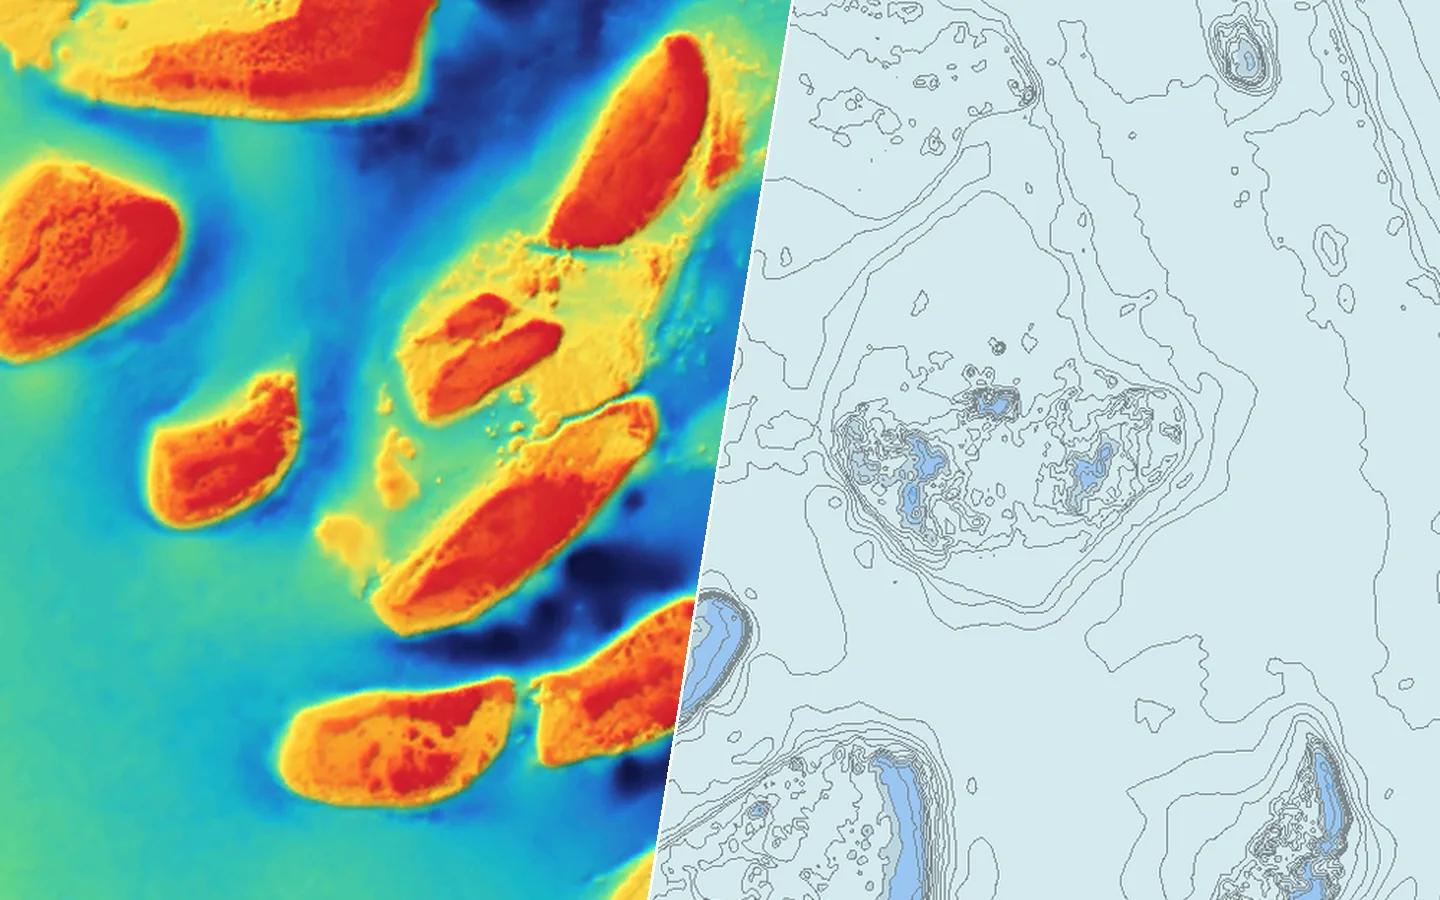
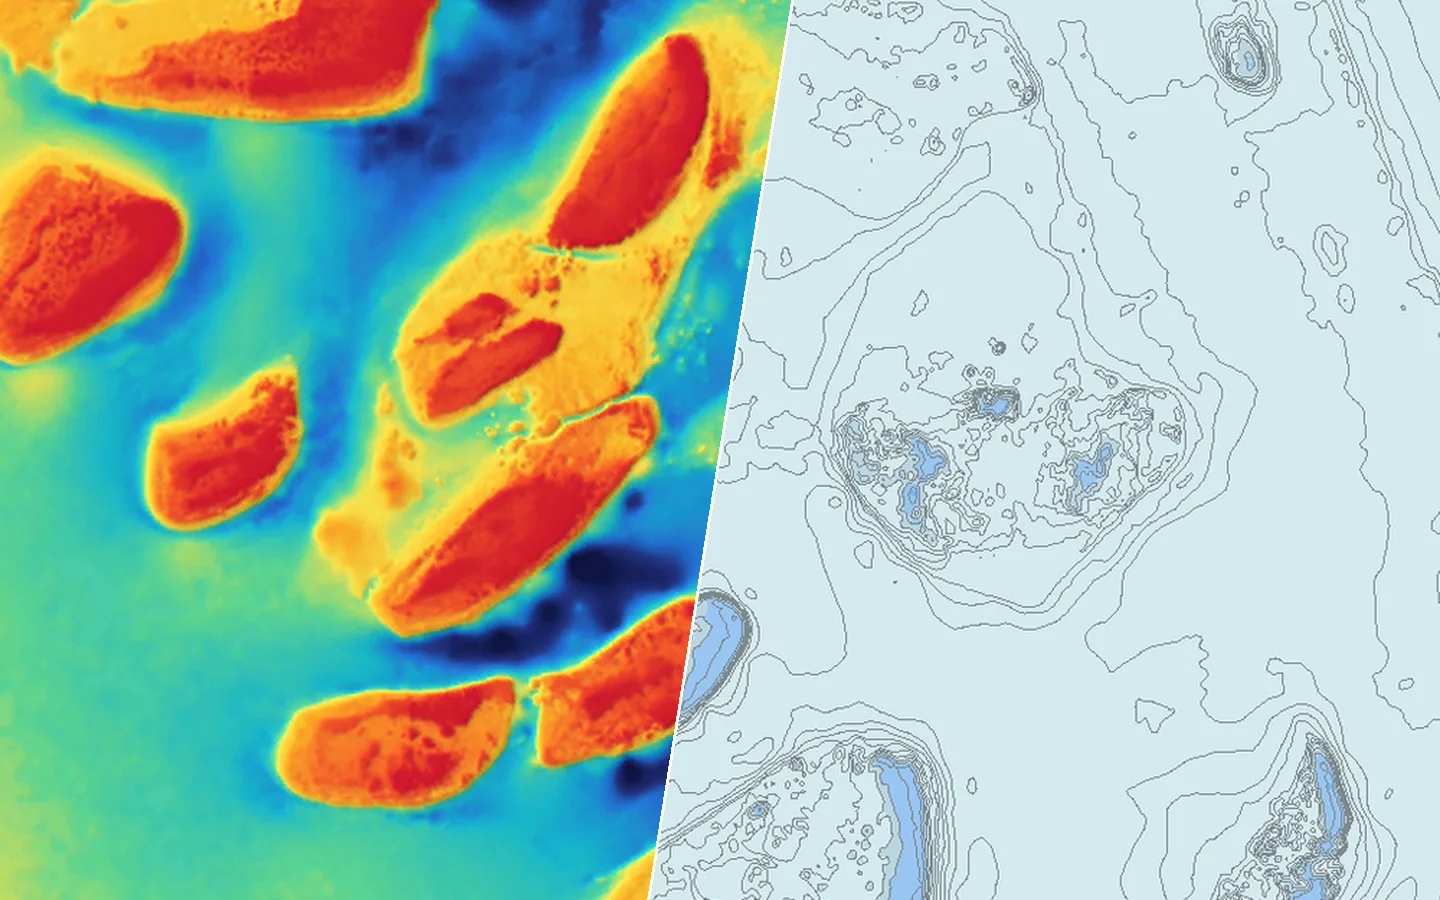
1.4: sharper, cleaner depth pictures
- Smooth (bicubic) depth between survey cells, so zoomed-in pictures stay crisp
- Slopes from all eight neighbours (Horn's method), which evens out survey speckle
- Light from four directions, so walls facing any way keep their shape
- More colours where most of the seabed is, so a reef flat isn't one colour
- Example picture of both layers in the README

diff --git a/src/depth.cpp b/src/depth.cpp
@@ -353,6 +353,36 @@ struct Grid {
     }
     return wsum >= 0.5 ? float(sum / wsum) : kMissing;
   }
+  // Smooth (Catmull-Rom bicubic) depth: crisper than bilinear when the picture is finer than the survey, and
+  // it passes through every cell's own value. Falls back to bilinear near missing cells and edges.
+  float SampleCubic(int L, double cx, double cy) const {
+    const int W = lw[size_t(L)], H = lh[size_t(L)];
+    const double x0f = std::floor(cx), y0f = std::floor(cy);
+    const int x0 = int(x0f), y0 = int(y0f);
+    if (x0 < 1 || y0 < 1 || x0 + 2 >= W || y0 + 2 >= H) return Sample(L, cx, cy);
+    const double fx = cx - x0f, fy = cy - y0f;
+    auto weights = [](double t, double w[4]) {
+      const double t2 = t * t, t3 = t2 * t;
+      w[0] = -0.5 * t3 + t2 - 0.5 * t;
+      w[1] = 1.5 * t3 - 2.5 * t2 + 1;
+      w[2] = -1.5 * t3 + 2 * t2 + 0.5 * t;
+      w[3] = 0.5 * t3 - 0.5 * t2;
+    };
+    double wx[4], wy[4];
+    weights(fx, wx);
+    weights(fy, wy);
+    double sum = 0;
+    for (int j = 0; j < 4; ++j) {
+      double rowSum = 0;
+      for (int i = 0; i < 4; ++i) {
+        const float v = At(L, x0 - 1 + i, y0 - 1 + j);
+        if (!Valid(v)) return Sample(L, cx, cy);
+        rowSum += wx[i] * v;
+      }
+      sum += wy[j] * rowSum;
+    }
+    return float(sum);
+  }
 };
 
 namespace {
@@ -647,6 +677,21 @@ class DepthImagery : public src::Source {
     }
     lo_ = o.rangeMin;
     hi_ = o.rangeMax > o.rangeMin ? o.rangeMax : std::max(lo_ + 1, AutoRangeMax(*g_));
+    // Where in the colours each depth falls: part even, part by how much seabed sits at each depth, so a reef flat
+    // that's mostly 5-15 m deep gets several colours instead of one. The range still starts and ends the colours.
+    std::vector<double> cdf(kSpreadSteps + 1, 0.0);
+    size_t inRange = 0;
+    for (float v : g_->sample) {
+      if (v < lo_ || v > hi_) continue;
+      ++inRange;
+      cdf[size_t(std::lround((double(v) - lo_) / (hi_ - lo_) * kSpreadSteps))] += 1;
+    }
+    for (int i = 0; i <= kSpreadSteps; ++i) {
+      const double even = double(i) / kSpreadSteps;
+      if (i) cdf[size_t(i)] += cdf[size_t(i - 1)];
+      const double byArea = inRange ? cdf[size_t(i)] / double(inRange) : even;
+      spread_[size_t(i)] = float(kEvenShare * even + (1 - kEvenShare) * byArea);
+    }
     printf("  colours: %s, %g .. %g m (deeper shows in the deepest colour), hillshade %d%%\n", pal->name, lo_, hi_, int(std::lround(o.hillshade * 100)));
     // native resolution in Lowrance-Mercator metres
     native_ = g_->cellMetres / std::cos(g_->centreLat * kDeg) * kRl / kA;
@@ -656,9 +701,19 @@ class DepthImagery : public src::Source {
   std::string Describe() const override { return "depth GeoTIFF " + g_->path; }
   std::unique_ptr<src::Sampler> MakeSampler() override { return std::make_unique<DepthSampler>(this); }
 
+  // 0..1 depth position in the range -> 0..1 position in the palette (see the constructor)
+  double Spread(double t) const {
+    const double f = std::clamp(t, 0.0, 1.0) * kSpreadSteps;
+    const int k = std::min(int(f), kSpreadSteps - 1);
+    return spread_[size_t(k)] + (spread_[size_t(k + 1)] - spread_[size_t(k)]) * (f - k);
+  }
+
+  static constexpr int kSpreadSteps = 512;
+  static constexpr double kEvenShare = 0.55;
   std::shared_ptr<Grid> g_;
   Options o_;
   uint8_t lut_[256][3]{};
+  float spread_[kSpreadSteps + 1]{};
   double lo_ = 0, hi_ = 10, native_ = 1;
 };
 
@@ -674,8 +729,12 @@ bool DepthSampler::RenderTile(double mpp, int64_t tx, int64_t ty, uint8_t* rgba)
   g.proj.UnitMetres(latMid, ex, ny);
   const double cellX = std::hypot(g.a, g.d) * ex * double(1 << L), cellY = std::hypot(g.b, g.e) * ny * double(1 << L);
   const double z = s.o_.relief, amount = std::clamp(s.o_.hillshade, 0.0, 1.0);
-  // light from the north-west, 45 degrees up
-  const double lx = -0.5, ly = 0.5, lz = std::sqrt(0.5);
+  // Light from four directions, 45 degrees up (as in multi-directional hillshade): mostly the north-west, plus the
+  // west, north and south-west, so walls facing any way keep their shape instead of going flat.
+  const double lz = std::sqrt(0.5);
+  struct Light { double x, y, weight; };
+  const double r = std::sqrt(0.5) * std::sqrt(0.5);   // horizontal part of a 45-degree light, split on a diagonal
+  const Light lights[4] = {{-r, r, 0.45}, {-std::sqrt(0.5), 0, 0.2}, {0, std::sqrt(0.5), 0.2}, {-r, -r, 0.15}};
   std::vector<double> lon(256), lat(256);
   for (int i = 0; i < 256; ++i) lon[size_t(i)] = (tx * 256 + i + 0.5) * mpp / kRl / kDeg;
   for (int j = 0; j < 256; ++j) lat[size_t(j)] = (2 * std::atan(std::exp((ty * 256 + j + 0.5) * mpp / kRl)) - kPi / 2) / kDeg;
@@ -688,27 +747,43 @@ bool DepthSampler::RenderTile(double mpp, int64_t tx, int64_t ty, uint8_t* rgba)
       g.proj.FromLonLat(lon[size_t(i)], lat[size_t(j)], x, y);
       g.MapToPixel(x, y, col, r);
       const double cx = col * f - 0.5, cy = r * f - 0.5;
-      const float d = g.Sample(L, cx, cy);
-      if (!Valid(d)) { px[3] = 0; continue; }
+      if (!Valid(g.Sample(L, cx, cy))) { px[3] = 0; continue; }   // mostly missing here
+      const float d = g.SampleCubic(L, cx, cy);
       uint8_t base[3];
       if (d < 0 && s.lo_ >= 0) {
         if (!s.o_.showAboveWater) { px[3] = 0; continue; }
         base[0] = uint8_t(kAboveWater >> 16); base[1] = uint8_t(kAboveWater >> 8); base[2] = uint8_t(kAboveWater);
       } else {
-        const double t = std::clamp((double(d) - s.lo_) / (s.hi_ - s.lo_), 0.0, 1.0);
+        const double t = s.Spread((double(d) - s.lo_) / (s.hi_ - s.lo_));
         const auto& c = s.lut_[size_t(std::lround(t * 255))];
         base[0] = c[0]; base[1] = c[1]; base[2] = c[2];
       }
       double shade = 1;
       const auto& lines = s.o_.pictureContours;
       if (amount > 0 || !lines.empty()) {
-        // slope of the seabed height (= -depth): x east, y north (rows run south)
-        const float de = g.Sample(L, cx + 1, cy), dw = g.Sample(L, cx - 1, cy), dn = g.Sample(L, cx, cy - 1), ds = g.Sample(L, cx, cy + 1);
-        const double hx = (Valid(de) && Valid(dw)) ? -(double(de) - double(dw)) / (2 * cellX) : 0;
-        const double hy = (Valid(dn) && Valid(ds)) ? -(double(dn) - double(ds)) / (2 * cellY) : 0;
+        // Slope of the seabed height (= -depth): x east, y north (rows run south). Horn's method, as in GDAL's
+        // hillshade: all eight neighbours, weighted 1-2-1, which evens out survey speckle without softening real
+        // edges. Falls back to the four nearest where neighbours are missing.
+        float nb[3][3];
+        bool all = true;
+        for (int v = 0; v < 3; ++v)
+          for (int u = 0; u < 3; ++u) {
+            nb[v][u] = (u == 1 && v == 1) ? d : g.Sample(L, cx + u - 1, cy + v - 1);
+            all = all && Valid(nb[v][u]);
+          }
+        double hx, hy;
+        if (all) {
+          hx = -((nb[0][2] + 2.0 * nb[1][2] + nb[2][2]) - (nb[0][0] + 2.0 * nb[1][0] + nb[2][0])) / (8 * cellX);
+          hy = -((nb[0][0] + 2.0 * nb[0][1] + nb[0][2]) - (nb[2][0] + 2.0 * nb[2][1] + nb[2][2])) / (8 * cellY);
+        } else {
+          const float de = nb[1][2], dw = nb[1][0], dn = nb[0][1], ds = nb[2][1];
+          hx = (Valid(de) && Valid(dw)) ? -(double(de) - double(dw)) / (2 * cellX) : 0;
+          hy = (Valid(dn) && Valid(ds)) ? -(double(dn) - double(ds)) / (2 * cellY) : 0;
+        }
         if (amount > 0) {
           const double nx = -z * hx, nyy = -z * hy, len = std::sqrt(nx * nx + nyy * nyy + 1);
-          const double lit = std::max(0.0, (nx * lx + nyy * ly + lz) / len) / lz;   // 1 on flat ground
+          double lit = 0;
+          for (const Light& l : lights) lit += l.weight * std::max(0.0, (nx * l.x + nyy * l.y + lz) / len) / lz;   // 1 on flat ground
           shade = 1 - amount + amount * std::min(lit, 1.6);
         }
         if (!lines.empty() && d >= 0) {

diff --git a/src/gui.cpp b/src/gui.cpp
@@ -19,7 +19,7 @@
 #pragma comment(lib, "user32.lib")
 
 static const wchar_t* kAppName = L"AT5 Chart Maker";
-static const wchar_t* kVersion = L"1.3.2";
+static const wchar_t* kVersion = L"1.4";
 
 enum {
   ID_IN = 100, ID_IN_BROWSE, ID_OUT, ID_OUT_BROWSE, ID_DESC, ID_PROJECT, ID_SCHEME, ID_DEEP, ID_LAND, ID_LAND_BROWSE,
@@ -115,13 +115,15 @@ static const Help kHelp[H_COUNT] = {
    L"\x2022  Chart blues: the light blues of a paper chart.\n"
    L"\x2022  Grey: light (shallow) to dark (deep)."},
   {L"Depth range", L"Which depths the colours are spread over.",
-   L"The colours are spread over this range of depths, for example 0-200. Water deeper than the range shows "
-   L"in the deepest colour.\n\n"
+   L"The colours are spread over this range of depths, for example 0-200, with more of them where most of the "
+   L"seabed is, so a reef flat doesn't come out all one colour. Water deeper than the range shows in the "
+   L"deepest colour.\n\n"
    L"A small range (say 0-30) shows the reefs and shallows in much more detail. A big range (say 0-2000) "
    L"shows the whole drop-off, with fewer colours left for the shallows.\n\n"
    L"Leave it empty for automatic: from 0 to about the deepest water in the survey."},
   {L"Hillshade", L"Shading that makes the seabed look 3D.",
-   L"Light from the north-west shades the slopes, so reefs, ridges and channels stand out.\n\n"
+   L"Light mostly from the north-west, with some from the west, north and south-west, shades the slopes, so "
+   L"reefs, ridges and channels stand out whichever way they face.\n\n"
    L"Off gives flat colours; Strong makes every bump show. Medium suits most surveys."},
   {L"Contour lines", L"Also makes a chart of depth contour lines.",
    L"Draws depth contour lines from the survey, with their depths written along them, as a separate depth "

diff --git a/docs/HOW-TO.md b/docs/HOW-TO.md
@@ -72,8 +72,8 @@ A GeoTIFF of depths (for example from BathyPicker) becomes a coloured, shaded de
 | Setting | What it does |
 |---|---|
 | **Colours** | **Spectrum** (red in the shallows through yellow and green to deep blue; shows the most detail), **Lagoon**, **Thermal**, **Chart blues** or **Grey**. |
-| **Depth range** | The depths the colours are spread over, for example `0-200`. Deeper water shows in the deepest colour. A small range (say `0-30`) shows reefs and shallows in much more detail; a big one (`0-2000`) shows the whole drop-off. Empty = automatic, from 0 to about the deepest water in the survey. |
-| **Hillshade** | Shading from the north-west that makes the seabed look 3D: Off, Light, Medium (recommended) or Strong. |
+| **Depth range** | The depths the colours are spread over, for example `0-200`. Deeper water shows in the deepest colour. The colours bunch up where most of the seabed is, so a reef flat gets several colours instead of one. A small range (say `0-30`) shows reefs and shallows in much more detail; a big one (`0-2000`) shows the whole drop-off. Empty = automatic, from 0 to about the deepest water in the survey. |
+| **Hillshade** | Shading that makes the seabed look 3D: Off, Light, Medium (recommended) or Strong. The light comes mostly from the north-west, with some from the west, north and south-west, so walls facing any way keep their shape. |
 | **Also make contour lines every** | Ticked: contour lines, labelled with their depth, as a depth chart in the same folder. Type a spacing in metres (`5`), a list of depths (`2,5,10,20,50`), or leave it empty for automatic. A spacing is used in the shallows and widens by itself in deep water (5 m past 50 m, 10 m past 200 m, 50 m past 500 m, 100 m past 1000 m), like a paper chart. |
 | **Coastline** | Land drawn with the contour lines, as for depth charts. |
 

diff --git a/README.md b/README.md
@@ -6,7 +6,7 @@
 Free, works offline.</p>
 
 <p align="center">
-  <img alt="Version 1.3.2" src="https://img.shields.io/badge/version-1.3.2-0f766e">
+  <img alt="Version 1.4" src="https://img.shields.io/badge/version-1.4-0f766e">
   <img alt="Windows 10 and 11" src="https://img.shields.io/badge/Windows-10%20%7C%2011-0078d4?logo=windows&logoColor=white">
   <img alt="Simrad, Lowrance, B&G" src="https://img.shields.io/badge/plotters-Simrad%20%7C%20Lowrance%20%7C%20B%26G-1f6feb">
   <img alt="Tested on Simrad" src="https://img.shields.io/badge/tested%20on-Simrad-success">
@@ -30,7 +30,7 @@ Free, works offline.</p>
 
 ## Download
 
-1. Go to the **[Releases](../../releases)** page and download `AT5-Chart-Maker-1.3.2.zip`.
+1. Go to the **[Releases](../../releases)** page and download `AT5-Chart-Maker-1.4.zip`.
 2. Unzip it anywhere and open the folder.
 3. Double-click **`AT5 Chart Maker.exe`**.
 
